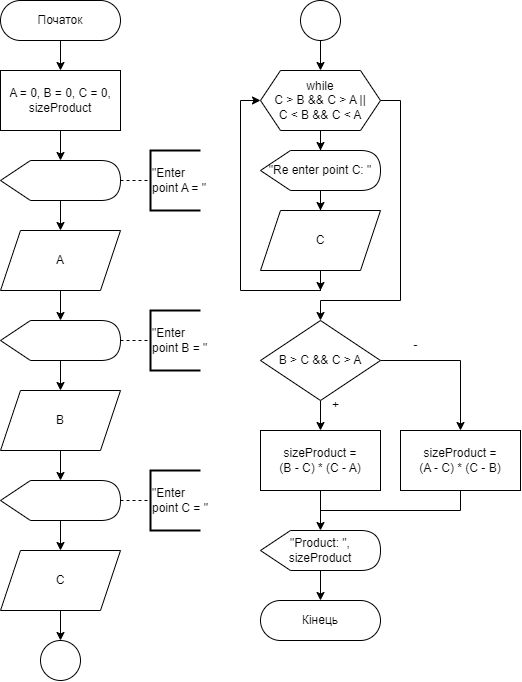
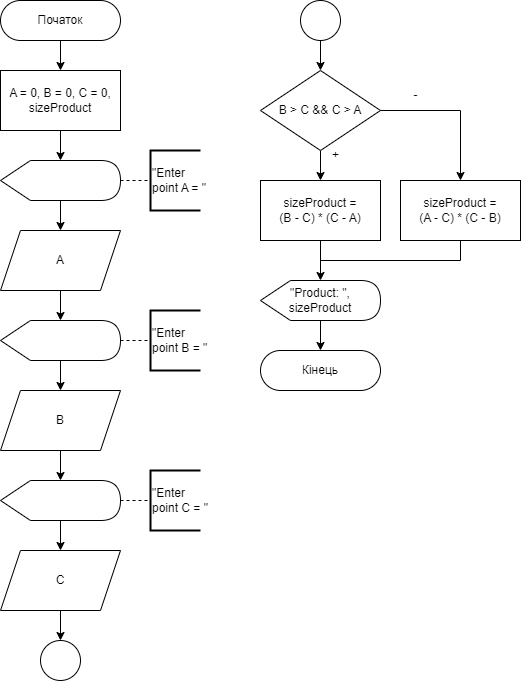
Colored dog, removed while, refactored block-scheme

diff --git a/Lab1_VadymHurnik/Task3/Task3.cpp b/Lab1_VadymHurnik/Task3/Task3.cpp
@@ -26,9 +26,9 @@ int main()
 	cout << "  _____/ \033[1;34m@\033[93m |   | \\" << endl;
 	cout << " |\033[1;95m>\033[93m  . .   |   |  \\" << endl;
 	cout << "  \\   .    \033[1;90m|||||\033[93m   \\__________________________" << endl;
-	cout << "   \033[1;90m|||||||\033[93m\\     \033[1;37m__\033[93m      \033[1;37m_____\033[93m       \033[1;37m/   \\\033[93m     |\\" << endl;
-	cout << "            \\  \033[1;37m|  |\033[93m    \033[1;37m/     | \033[93m     \033[1;37m|   |\033[93m     | \\" << endl;
-	cout << "             \\  \033[1;37m\\/\033[93m    \033[1;37m|__    |\033[93m      \033[1;37m|__/\033[93m      |  \\" << endl;
+	cout << "   \033[1;90m|||||||\033[93m\\     \033[1;31m__\033[93m      \033[1;37m_____\033[93m       \033[1;92m/   \\\033[93m     |\\" << endl;
+	cout << "            \\  \033[1;31m|  |\033[93m    \033[1;37m/     | \033[93m     \033[1;92m|   |\033[93m     | \\" << endl;
+	cout << "             \\  \033[1;31m\\/\033[93m    \033[1;37m|__    |\033[93m      \033[1;92m|__/\033[93m      |  \\" << endl;
 	cout << "               \\         \033[1;37m\\__/\033[93m                /    \\" << endl;
 	cout << "                |   ____________------\\     |      \\" << endl;
 	cout << "                |  | |                ||    /       \\ " << endl;

diff --git a/Lab1_VadymHurnik/Task2/Task2.cpp b/Lab1_VadymHurnik/Task2/Task2.cpp
@@ -27,12 +27,6 @@ int main()
 	cout << "Enter point C (between A and B): ";
 	cin >> C;
 
-	while (C > B && C > A || C < B && C < A)
-	{
-		cout << "Re enter point C: ";
-		cin >> C;
-	}
-
 	if (B > C && C > A)
 	{
 		sizeProduct = (B - C) * (C - A);
